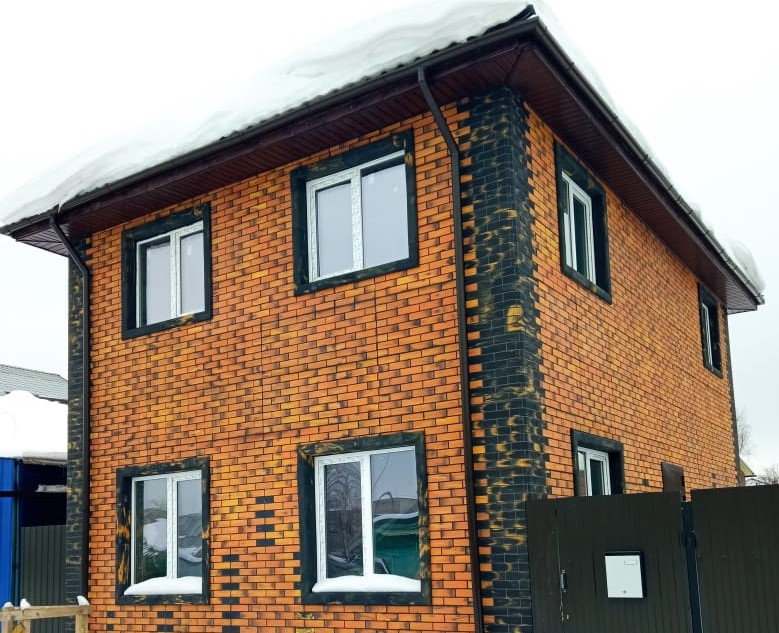
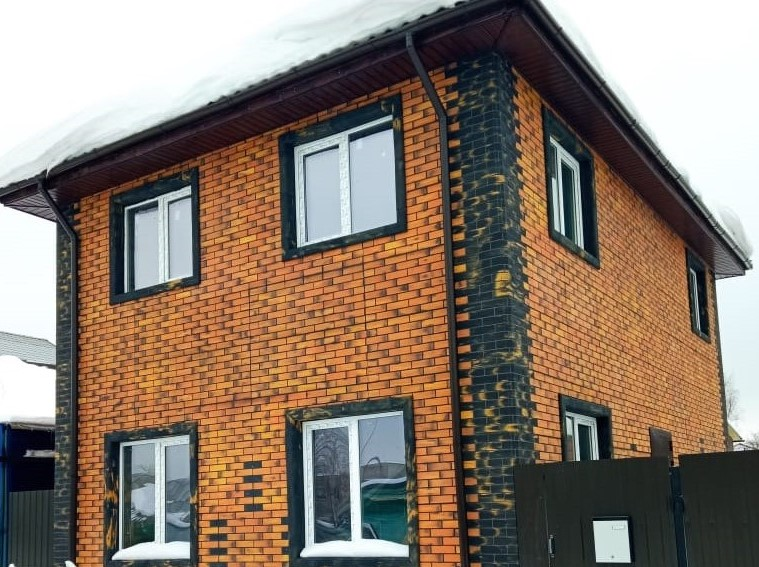
fix imgs

diff --git a/index.html b/index.html
@@ -115,7 +115,7 @@
 						</div>
 						</a>
 						<div class="black-panel"></div>
-						<img class="slideBg" src="img/main_angle.jpg">
+						<img class="slideBg" src="img/main_object.jpg">
 					</div>
 				</div>
 				<!-- <div class="down-arrow"><a href="#about"><i class="fa fa-angle-down"></i></a></div> -->

diff --git a/css/main.css b/css/main.css
@@ -1269,7 +1269,7 @@ ul.hamburger li:nth-child(3) {
 
 .object-img {
   border: 4px inset #893074;
-  width: 1000px;
+  width: 70%;
   height: 70%;
 }
 
